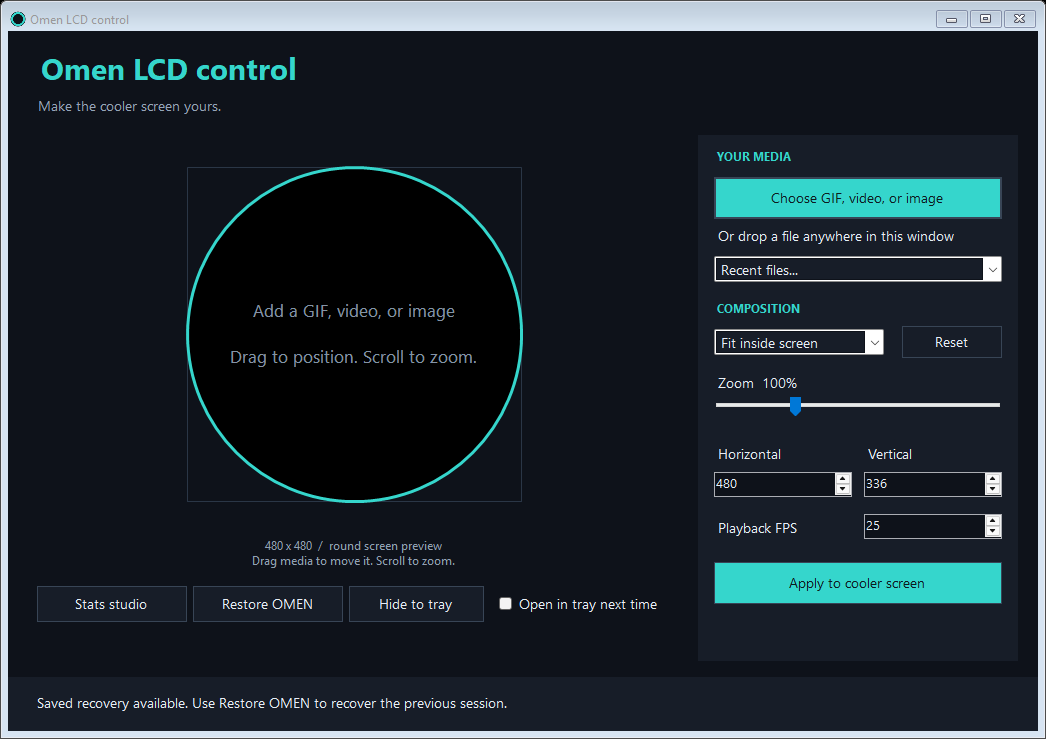
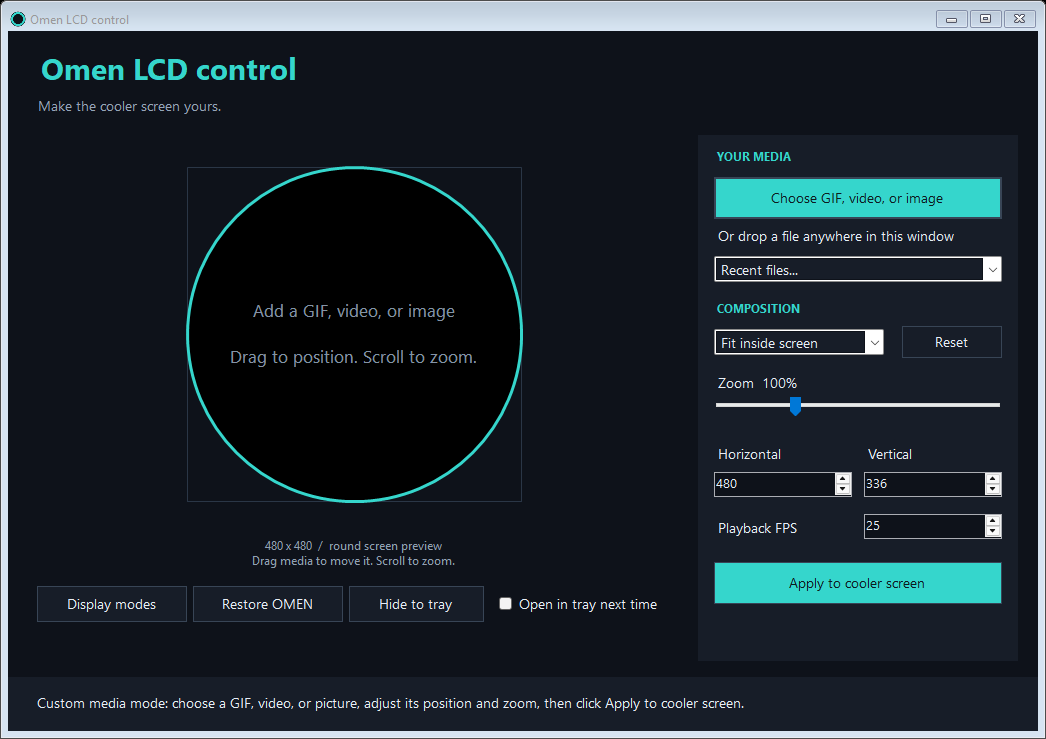
added back gif, video and pic support

Changed region(s): [[0.0306, 0.9337, 0.7036, 0.9648], [0.0612, 0.8092, 0.153, 0.8403]]

diff --git a/src/DashboardForm.cs b/src/DashboardForm.cs
@@ -20,6 +20,7 @@ namespace OmenLCDControl {
         private readonly NumericUpDown slide;
         private readonly Label information;
         private readonly ListBox readings;
+        private readonly RadioButton customMedia;
         private readonly Timer timer=new Timer{Interval=100};
         private readonly Stopwatch clock=Stopwatch.StartNew();
         private bool applying;
@@ -29,13 +30,15 @@ namespace OmenLCDControl {
             Text="Omen LCD control - Dashboard designer";Font=new Font("Segoe UI",10);BackColor=Color.FromArgb(14,18,26);ForeColor=Color.White;
             ClientSize=new Size(1190,790);MinimumSize=new Size(1100,820);StartPosition=FormStartPosition.CenterParent;
             var header=new Panel{Dock=DockStyle.Top,Height=96,Padding=new Padding(18)};Controls.Add(header);
-            header.Controls.Add(new Label{Text="STATS STUDIO",Left=20,Top=12,Width=220,Height=35,Font=new Font("Segoe UI",20,FontStyle.Bold),ForeColor=Color.Turquoise});
+            header.Controls.Add(new Label{Text="DISPLAY MODE",Left=20,Top=12,Width=220,Height=35,Font=new Font("Segoe UI",20,FontStyle.Bold),ForeColor=Color.Turquoise});
             selectedLayout=config.Layout;
-            var layoutPanel=new FlowLayoutPanel{Left=254,Top=19,Width=300,Height=32};header.Controls.Add(layoutPanel);
+            var layoutPanel=new FlowLayoutPanel{Left=254,Top=19,Width=575,Height=32};header.Controls.Add(layoutPanel);
             foreach(string name in new[]{"Rings","Bars","Spotlight"}){var choice=new RadioButton{Text=name,AutoSize=true,Checked=name==selectedLayout,ForeColor=Color.White};choice.CheckedChanged+=(s,e)=>{if(choice.Checked)selectedLayout=choice.Text;};layoutChoices.Add(choice);layoutPanel.Controls.Add(choice);}
-            header.Controls.Add(new Label{Text="Seconds per slide",Left=565,Top=22,Width=140,Height=25});
-            slide=new NumericUpDown{Left=705,Top=19,Width=75,DecimalPlaces=2,Increment=.05m,Minimum=.5m,Maximum=1,Value=(decimal)config.SlideSeconds};header.Controls.Add(slide);
-            header.Controls.Add(new Label{Text="Assign your metrics below. Slots 1-4 draw graphs; slots 5-6 sit in the center / footer. Spotlight cycles all enabled slots.",Left=22,Top=62,Width=1140,Height=27,ForeColor=Color.LightSteelBlue});
+            customMedia=new RadioButton{Text="Custom video / GIF / picture",AutoSize=true,ForeColor=Color.White};layoutPanel.Controls.Add(customMedia);
+            customMedia.Click+=(s,e)=>{if(!applying){DialogResult=DialogResult.Retry;Close();}else customMedia.Checked=false;};
+            header.Controls.Add(new Label{Text="Seconds per slide",Left=840,Top=22,Width=140,Height=25});
+            slide=new NumericUpDown{Left=980,Top=19,Width=75,DecimalPlaces=2,Increment=.05m,Minimum=.5m,Maximum=1,Value=(decimal)config.SlideSeconds};header.Controls.Add(slide);
+            header.Controls.Add(new Label{Text="Choose a stats layout, or Custom video / GIF / picture to open the media editor with drag, zoom and Fit/Fill controls.",Left=22,Top=62,Width=1140,Height=27,ForeColor=Color.LightSteelBlue});
             var footer=new Panel{Dock=DockStyle.Bottom,Height=66};Controls.Add(footer);
             var save=Button("Export design",20,14,138,footer);var load=Button("Import design",170,14,138,footer);
             var activateButton=Button("Apply dashboard",957,14,205,footer);activateButton.Anchor=AnchorStyles.Right|AnchorStyles.Top;activateButton.BackColor=Color.Turquoise;activateButton.ForeColor=Color.Black;
@@ -97,5 +100,6 @@ namespace OmenLCDControl {
             }
         }
         internal void RenderSmoke(string path){Show();var wait=Stopwatch.StartNew();while(wait.ElapsedMilliseconds<1800){Application.DoEvents();System.Threading.Thread.Sleep(20);}ticks=9;TickPreview();Application.DoEvents();using(var image=new Bitmap(Width,Height)){DrawToBitmap(image,new Rectangle(0,0,Width,Height));image.Save(path,System.Drawing.Imaging.ImageFormat.Png);}Close();}
+        internal void SelectCustomMediaForSmoke(){customMedia.PerformClick();}
     }
 }

diff --git a/src/MainForm.cs b/src/MainForm.cs
@@ -84,7 +84,7 @@ namespace OmenLCDControl {
             cancel = AddButton(sidebar, "Cancel conversion", 476, 288, false); cancel.Visible = false;
 
             var tools = new FlowLayoutPanel { Dock = DockStyle.Bottom, Height = 88, Padding = new Padding(6, 10, 6, 0), BackColor = BackColor };
-            stats = new Button { Text = "Stats studio", Width = 150, Height = 36 }; StyleButton(stats, false); tools.Controls.Add(stats);
+            stats = new Button { Text = "Display modes", Width = 150, Height = 36 }; StyleButton(stats, false); tools.Controls.Add(stats);
             restore = new Button { Text = "Restore OMEN", Width = 150, Height = 36 }; StyleButton(restore, false); tools.Controls.Add(restore);
             var hide = new Button { Text = "Hide to tray", Width = 135, Height = 36 }; StyleButton(hide, false); tools.Controls.Add(hide);
             startInTray = new CheckBox { Text = "Open in tray next time", AutoSize = true, Margin = new Padding(12, 10, 3, 3), Checked = state.StartInTray }; tools.Controls.Add(startInTray);
@@ -197,7 +197,7 @@ namespace OmenLCDControl {
         private void DrawStats() {
             using (var image = DashboardRenderer.Render(state.Dashboard, dashboard.Hub.Snapshot(), dashboardClock.Elapsed.TotalSeconds, DateTime.UtcNow)) DashboardRenderer.SaveAtomic(image, livePath);
         }
-        private void ShowDashboard() {
+        private void ShowDashboard(bool selectMediaForSmoke = false) {
             if (busy) return;
             if (dashboard == null) dashboard = new DashboardRuntime();
             using (var designer = new DashboardForm(dashboard, state.Dashboard, async config => {
@@ -205,7 +205,13 @@ namespace OmenLCDControl {
                 var previous = state.Dashboard;
                 try { state.Dashboard = config; await StartStats(); Save(); }
                 catch { state.Dashboard = previous; throw; }
-            })) designer.ShowDialog(this);
+            })) {
+                if (selectMediaForSmoke) designer.Shown += (s,e) => designer.BeginInvoke((Action)designer.SelectCustomMediaForSmoke);
+                if (designer.ShowDialog(this) == DialogResult.Retry) {
+                    ShowEditor(); open.Focus();
+                    SetStatus("Custom media mode: choose a GIF, video, or picture, adjust its position and zoom, then click Apply to cooler screen.");
+                }
+            }
         }
         private async Task StartStats() {
             if (busy) return; SetBusy(true);
@@ -222,6 +228,8 @@ namespace OmenLCDControl {
             Show(); Application.DoEvents();
             Close(); if (IsDisposed || Visible) throw new Exception("Close-to-tray smoke test failed.");
             Show(); Application.DoEvents();
+            ShowDashboard(true);
+            if (!Visible || !open.Enabled || !status.Text.StartsWith("Custom media mode:")) throw new Exception("Custom media display-mode navigation failed.");
             using (var bitmap = new Bitmap(Width, Height)) { DrawToBitmap(bitmap, new Rectangle(0, 0, Width, Height)); bitmap.Save(path, ImageFormat.Png); }
             exiting = true; Close();
         }

diff --git a/src/AssemblyInfo.cs b/src/AssemblyInfo.cs
@@ -3,5 +3,5 @@ using System.Reflection;
 [assembly: AssemblyTitle("Omen LCD control")]
 [assembly: AssemblyDescription("Community cooler screen editor for compatible HP OMEN desktops")]
 [assembly: AssemblyProduct("Omen LCD control")]
-[assembly: AssemblyVersion("0.3.1.0")]
-[assembly: AssemblyFileVersion("0.3.1.0")]
+[assembly: AssemblyVersion("0.3.2.0")]
+[assembly: AssemblyFileVersion("0.3.2.0")]

diff --git a/README.md b/README.md
@@ -12,7 +12,7 @@ Run `OmenLCDControl.exe` from the portable release folder. No installation or ad
 
 If you still have the earlier PowerShell controller open, restore and close it before using this app.
 
-1. Choose a GIF, video, or image, or drop it into the editor.
+1. Click **Display modes** to choose **Rings**, **Bars**, **Spotlight**, or **Custom video / GIF / picture**. The fourth option opens the media editor. Click **Choose GIF, video, or image**, or drop a file into the editor.
 2. Drag it inside the round preview. Scroll or use the slider to resize it. Fit and Fill provide starting layouts; horizontal and vertical controls allow precise positioning.
 3. Click **Apply to cooler screen**. Conversion runs in the background and can be cancelled before the display settings change.
 4. Close the window or click **Hide to tray** to keep it running. Double-click the teal ring in the Windows system tray to reopen it.
@@ -20,7 +20,9 @@ If you still have the earlier PowerShell controller open, restore and close it b
 
 GIF previews animate. Video previews show a poster frame; the full video loops on the hardware after applying. The square output is 480 × 480, with its corners hidden by the round LCD.
 
-**Stats studio** lets you build a live dashboard using Rings, Bars, or Spotlight (one metric per slide, 0.5–1 second). Assign six slots, set colors and graph ranges, disable fields, and import/export designs. CPU/RAM usage, CPU speed, GPU usage/temperature/clock/VRAM, local time, and custom numeric/text data are available. CPU temperature requires a running LibreHardwareMonitor sensor provider. NVIDIA GPU metrics use the installed NVIDIA tools.
+**Display modes** presents all four options together: Rings, Bars, Spotlight (one metric per slide, 0.5–1 second), and Custom video / GIF / picture. For stats, assign six slots, set colors and graph ranges, disable fields, and import/export designs. CPU/RAM usage, CPU speed, GPU usage/temperature/clock/VRAM, local time, and custom numeric/text data are available. CPU temperature requires a running LibreHardwareMonitor sensor provider. NVIDIA GPU metrics use the installed NVIDIA tools.
+
+Custom media supports animated GIFs, videos (MP4, MKV, AVI, MOV, WebM), and still pictures (JPG, PNG, BMP). Drag and zoom, use Fit/Fill, then **Apply to cooler screen**. Selecting an option alone does not replace current playback; the selected media or stats take over when you click its Apply button. Return to **Display modes** whenever you want to switch back to stats.
 
 Read [the dashboard guide](docs/dashboards.md) and [custom data API guide](docs/custom-data.md). Game FPS and other custom values must be supplied by your own telemetry integration. The API runs on loopback with a bearer token while Stats studio or a dashboard session is active. Closing the windows keeps it running in the tray.
 
@@ -87,7 +89,7 @@ Unit checks cover composition geometry, actual still-image pixels, unknown JSON 
 
 ## Project status
 
-Version **0.3.1**, early community prototype. The portable executable is unsigned. The app has been tested on one PC, rather than across the OMEN product range.
+Version **0.3.2**, early community prototype. The portable executable is unsigned. The app has been tested on one PC, rather than across the OMEN product range.
 
 Dashboard validation covers numeric/text ingestion, stale readings, protected system metrics, authenticated HTTP, graph ranges, all three renderers and slide advancement. Live Windows/NVIDIA readings and changing source frames were checked on the test PC, with exact HP configuration restoration. This HP transport does not expose refreshed Image-mode output files, so physical LCD updates still need user verification. The Image-mode timer runs approximately twice per second; fast Spotlight transitions will be less smooth than the preview.
 

diff --git a/docs/releases/v0.3.2.md b/docs/releases/v0.3.2.md
@@ -1,0 +1,7 @@
+# Omen LCD control v0.3.2
+
+All four display choices are now visible together: **Rings**, **Bars**, **Spotlight**, and **Custom video / GIF / picture**. Choose the fourth option to open the media editor, select your file, drag/zoom or use Fit/Fill, then click Apply to cooler screen. Return through Display modes to use stats again.
+
+The GIF/video/picture feature was still present in the main editor; the stats window made it difficult to discover. This release adds the explicit fourth option and updates the editor button, README, screenshots and release packages. Selecting a mode does not change the cooler until you apply it.
+
+Existing preferences, recovery backups and API tokens remain compatible. Close the previous version before running the new executable. CPU temperature requires LibreHardwareMonitor, custom FPS requires a sender, and HP Image-mode dashboard refresh remains roughly 2 Hz.

diff --git a/docs/dashboards.md b/docs/dashboards.md
@@ -1,6 +1,6 @@
 # Design a stats screen
 
-Open **Stats studio**, choose a layout, assign metrics, and click **Apply dashboard**. Close the designer and editor to continue in the tray. Applying a media file replaces the dashboard. Restore OMEN returns the saved HP settings.
+Open **Display modes**, choose a stats layout, assign metrics, and click **Apply dashboard**. The fourth option, **Custom video / GIF / picture**, opens the media editor, where you can choose a file, drag/zoom, use Fit/Fill, and click **Apply to cooler screen**. Close the designer and editor to continue in the tray. Applying a media file replaces the dashboard. Return to Display modes to switch back to stats. Restore OMEN returns the saved HP settings.
 
 * **Rings:** four concentric gauges with matching legends, plus two center fields.
 * **Bars:** four horizontal gauges, plus two footer fields.

diff --git a/docs/custom-data.md b/docs/custom-data.md
@@ -1,6 +1,6 @@
 # Stream custom data
 
-Open **Stats studio** to start the local API. It stays active while the app is in the tray. The endpoint is `http://127.0.0.1:47845/v1/metrics`. Click **Copy token** in the designer. The same token is stored in `%LOCALAPPDATA%\OmenScreen\api-token.txt`; do not publish it.
+Open **Display modes** to start the stats studio and local API. It stays active while the app is in the tray. The endpoint is `http://127.0.0.1:47845/v1/metrics`. Click **Copy token** in the designer. The same token is stored in `%LOCALAPPDATA%\OmenScreen\api-token.txt`; do not publish it.
 
 Send JSON with an `Authorization: Bearer YOUR_TOKEN` header:
 

diff --git a/CHANGELOG.md b/CHANGELOG.md
@@ -1,5 +1,12 @@
 # Changelog
 
+## 0.3.2 — 2026-10-10
+
+- Added Custom video / GIF / picture as a fourth choice alongside Rings, Bars and Spotlight.
+- Renamed the editor's Stats studio button to Display modes for clearer navigation.
+- The custom media choice opens the existing drag/zoom and Fit/Fill editor; applying media replaces stats playback.
+- Updated README, mode guide, screenshots and portable/source packages; verified fourth-option navigation and GIF/video conversion.
+
 ## 0.3.1 — 2026-10-10
 
 - Renamed the app, executable, project and release packages to Omen LCD control.
